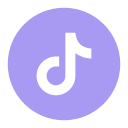
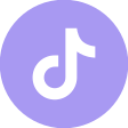
git commit

Changed region(s): [[0.0, 0.0, 1.0, 1.0], [0.25, 0.2188, 0.75, 0.7812], [0.3438, 0.5, 0.5312, 0.6875]]

diff --git a/js/orderAdd.js b/js/orderAdd.js
@@ -1,10 +1,15 @@
-let service = ''
-let petType = ''
+let petType = 'Коты'
+let service = 'Обрезание когтей. Коты'
+
 $('#services').on('change', function () {
     service = this.value
 })
 $('#petType').on('change', function () {
     petType = this.value
+    if (petType === 'Коты')
+        service = 'Обрезание когтей. Коты'
+    else if (petType === 'Собаки')
+        service = 'Обрезание когтей. Собаки'
 })
 
 $("#adding").on('submit', function (e) {
@@ -27,6 +32,9 @@ $("#adding").on('submit', function (e) {
                     $('.accepted').show()
                 else if (rp === 'acc err')
                     $('.canceled').show()
+            },
+            error: function () {
+                console.log('error!')
             }
         })
     }
@@ -39,7 +47,7 @@ function isEmpty() {
 function closeWindow(btn) {
     $(`.${btn}`).hide()
     if (btn === 'canceled')
-        window.location.replace('registration.php')
+        window.location.replace('authorization.php')
     if (btn === 'accepted') {
         $('#name').val('')
         document.getElementById("petType").selectedIndex = "-1";

diff --git a/css/index.css b/css/index.css
@@ -466,6 +466,24 @@ footer .socials,
     justify-content: space-around;
     margin: 0 0 2em 0;
 }
+.socials .fb{
+    background-image: url('../pics/main/facebook.png');
+}
+.socials .fb:hover{
+    background-image: url('../pics/main/fb_hover.png');
+}
+.socials .inst{
+    background-image: url('../pics/main/instagram.png');
+}
+.socials .inst:hover{
+    background-image: url('../pics/main/inst_hover.png');
+}
+.socials .tt{
+    background-image: url('../pics/main/tiktok.png');
+}
+.socials .tt:hover{
+    background-image: url('../pics/main/tt_hover.png');
+}
 
 .texts .socials {
     width: 10em;
@@ -474,7 +492,10 @@ footer .socials,
 
 .socials .s-item * {
     width: 3em;
-    height: auto;
+    height: 3em;
+    transition: 0.3s;
+    background-size: 3em 3em;
+    cursor: pointer;
 }
 
 footer .end {

diff --git a/js/chooseType.js b/js/chooseType.js
@@ -10,7 +10,7 @@ $.ajax({
     }
 })
 
-$('.types').on('change', function () {
+$('#petType').on('change', function () {
     type = this.value
     $.ajax({
         url: 'code/servicesSelect.php',

diff --git a/php/contacts.php b/php/contacts.php
@@ -108,18 +108,21 @@
                 <h1><b>Мы всегда рады<br />новым клиентам!</b></h1>
                 <div class="adresses">
                     <p>
-                        <b>Адреса:</b><br />
+                        <b>Адрес:</b><br />
                         г. Минск, пр-т Дзержинского, д. 15, пом. 858<br />
+                    </p>
+                </div>
+                <div class="adresses">
+                    <p>
+                        <b>Адрес офиса:</b><br />
                         г. Минск, пр-т Пушкина, д. 13<br />
-                        г. Минск, ул. Ландера, д. 18, пом. 311
                     </p>
                 </div>
                 <div class="phones">
                     <p>
                         <b>Телефоны:</b><br />
-                        +375 (29) 151-00-75<br />
-                        +375 (44) 151-65-55<br />
-                        +375 (33) 151-11-75
+                        +375 (29) 151-00-75 (салон)<br />
+                        +375 (33) 151-11-75 (офис)
                     </p>
                 </div>
                 <div class="hours">
@@ -134,13 +137,13 @@
                 </p>
                 <div class="socials">
                     <div class="s-item">
-                        <img src='../pics/main/facebook.png'></img>
+                        <div class="fb"></div>
                     </div>
                     <div class="s-item">
-                        <img src='../pics/main/instagram.png'></img>
+                        <div class="inst"></div>
                     </div>
                     <div class="s-item">
-                        <img src='../pics/main/tiktok.png'></img>
+                        <div class="tt"></div>
                     </div>
                 </div>
             </div>
@@ -175,13 +178,13 @@
                 <div class="col">
                     <div class="socials">
                         <div class="s-item">
-                            <img src='../pics/main/facebook.png'></img>
+                            <div class="fb"></div>
                         </div>
                         <div class="s-item">
-                            <img src='../pics/main/instagram.png'></img>
+                            <div class="inst"></div>
                         </div>
                         <div class="s-item">
-                            <img src='../pics/main/tiktok.png'></img>
+                            <div class="tt"></div>
                         </div>
                     </div>
                 </div>

diff --git a/php/about.php b/php/about.php
@@ -227,13 +227,13 @@
                 <div class="col">
                     <div class="socials">
                         <div class="s-item">
-                            <img src='../pics/main/facebook.png'></img>
+                            <div class="fb"></div>
                         </div>
                         <div class="s-item">
-                            <img src='../pics/main/instagram.png'></img>
+                            <div class="inst"></div>
                         </div>
                         <div class="s-item">
-                            <img src='../pics/main/tiktok.png'></img>
+                            <div class="tt"></div>
                         </div>
                     </div>
                 </div>

diff --git a/php/authorization.php b/php/authorization.php
@@ -152,13 +152,13 @@
                 <div class="col">
                     <div class="socials">
                         <div class="s-item">
-                            <img src='../pics/main/facebook.png'></img>
+                            <div class="fb"></div>
                         </div>
                         <div class="s-item">
-                            <img src='../pics/main/instagram.png'></img>
+                            <div class="inst"></div>
                         </div>
                         <div class="s-item">
-                            <img src='../pics/main/tiktok.png'></img>
+                            <div class="tt"></div>
                         </div>
                     </div>
                 </div>

diff --git a/php/gallery.php b/php/gallery.php
@@ -176,13 +176,13 @@
                 <div class="col">
                     <div class="socials">
                         <div class="s-item">
-                            <img src='../pics/main/facebook.png'></img>
+                            <div class="fb"></div>
                         </div>
                         <div class="s-item">
-                            <img src='../pics/main/instagram.png'></img>
+                            <div class="inst"></div>
                         </div>
                         <div class="s-item">
-                            <img src='../pics/main/tiktok.png'></img>
+                            <div class="tt"></div>
                         </div>
                     </div>
                 </div>

diff --git a/php/main.php b/php/main.php
@@ -321,13 +321,13 @@
                 <div class="col">
                     <div class="socials">
                         <div class="s-item">
-                            <img src='../pics/main/facebook.png'></img>
+                            <div class="fb"></div>
                         </div>
                         <div class="s-item">
-                            <img src='../pics/main/instagram.png'></img>
+                            <div class="inst"></div>
                         </div>
                         <div class="s-item">
-                            <img src='../pics/main/tiktok.png'></img>
+                            <div class="tt"></div>
                         </div>
                     </div>
                 </div>

diff --git a/php/manage.php b/php/manage.php
@@ -327,13 +327,13 @@
                 <div class="col">
                     <div class="socials">
                         <div class="s-item">
-                            <img src='../pics/main/facebook.png'></img>
+                            <div class="fb"></div>
                         </div>
                         <div class="s-item">
-                            <img src='../pics/main/instagram.png'></img>
+                            <div class="inst"></div>
                         </div>
                         <div class="s-item">
-                            <img src='../pics/main/tiktok.png'></img>
+                            <div class="tt"></div>
                         </div>
                     </div>
                 </div>

diff --git a/php/me.php b/php/me.php
@@ -188,13 +188,13 @@
                 <div class="col">
                     <div class="socials">
                         <div class="s-item">
-                            <img src='../pics/main/facebook.png'></img>
+                            <div class="fb"></div>
                         </div>
                         <div class="s-item">
-                            <img src='../pics/main/instagram.png'></img>
+                            <div class="inst"></div>
                         </div>
                         <div class="s-item">
-                            <img src='../pics/main/tiktok.png'></img>
+                            <div class="tt"></div>
                         </div>
                     </div>
                 </div>

diff --git a/php/registration.php b/php/registration.php
@@ -168,13 +168,13 @@
                 <div class="col">
                     <div class="socials">
                         <div class="s-item">
-                            <img src='../pics/main/facebook.png'></img>
+                            <div class="fb"></div>
                         </div>
                         <div class="s-item">
-                            <img src='../pics/main/instagram.png'></img>
+                            <div class="inst"></div>
                         </div>
                         <div class="s-item">
-                            <img src='../pics/main/tiktok.png'></img>
+                            <div class="tt"></div>
                         </div>
                     </div>
                 </div>

diff --git a/php/services.php b/php/services.php
@@ -297,13 +297,13 @@
                 <div class="col">
                     <div class="socials">
                         <div class="s-item">
-                            <img src='../pics/main/facebook.png'></img>
+                            <div class="fb"></div>
                         </div>
                         <div class="s-item">
-                            <img src='../pics/main/instagram.png'></img>
+                            <div class="inst"></div>
                         </div>
                         <div class="s-item">
-                            <img src='../pics/main/tiktok.png'></img>
+                            <div class="tt"></div>
                         </div>
                     </div>
                 </div>
